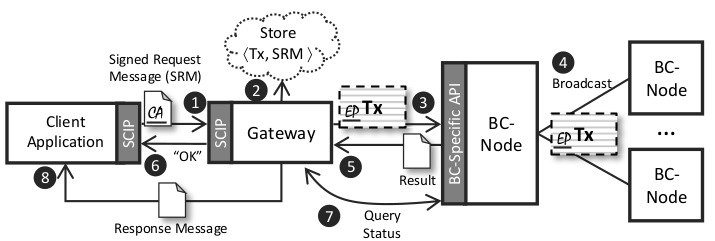
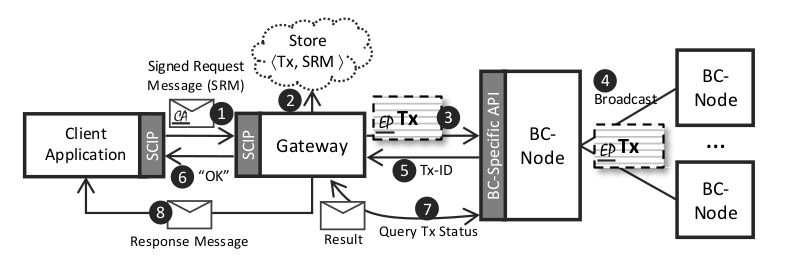
README updated

Changed region(s): [[0.0, 0.029, 0.9846, 0.9876]]

diff --git a/README.md b/README.md
@@ -12,24 +12,68 @@
   Frank Leymann  
 
 ## Introduction
-This document specifies the Smart Contract Invocation Protocol (SCIP) natural evolvement of the Smart Contract Locator ([SCL](https://bit.ly/2WRXvCZ)), intended to provide a protocol specification in the context of blockchains integration that allows external consumer applications to invoke smart contract functions in a uniform manner regardless of the underlying blockchain technology. Moreover it provides the capability to monitor smart contracts at runtime. The protocol assumes that the underlying blockchain technology is compatible with the Smart Contract Description Language ([SCDL](https://bit.ly/2JZUA5S))
+This document specifies the Smart Contract Invocation Protocol (SCIP) as natural evolvement of the Smart Contract Locator ([SCL](https://bit.ly/2WRXvCZ)), intended to provide a protocol specification in the context of blockchains integration that allows external consumer applications to invoke smart contract functions in a uniform manner regardless of the underlying blockchain technology. Moreover it provides the capability to monitor smart contracts at runtime. The protocol assumes that the underlying blockchain technology is compatible with the Smart Contract Description Language ([SCDL](https://bit.ly/2JZUA5S)). This core of the interface consists of a set of *methods* that can be used by blockchain-external consumer applications to interact with *smart contracts*. The methods are provided by an entity, called *gateway* (actual SCIP endpoint), which mediates between two or more different network technologies: the Internet and the blockchain networks. This gateway is reachable using the aforementioned *Smart Contract Locator* ([SCL](https://bit.ly/2WRXvCZ)), which uniquely identifies a smart contract outside the blockchain. We assume that client applications authenticate themselves with the gateway using OAuth 2.0, and that attacks like the Man-In-The-Middle (MITM) are thus prevented.
+
+<br/>
 
 ## Protocol Specification
-The protocol defines a total of six methods that can be grouped into three categories:
-* *Invocation of smart contracts function.*
-* *Live-monitoring of function invocation and event occurrences.*
-* *Querying of past invocations and events*
+The protocol define a total of four different allowed methods:
 
-A summary of all messages used as request or response of the protocol methods are defined in the Figure 1, which shows them in the form of metamodel. Next, we describe the semantics, as well as the exchanged messages for each of these methods in details.
+* The *invocation* of a smart contract function
+* The *subscription* to notifications regarding function invocations or event occurrences
+* The *unsubscription* from live monitoring
+* The *querying* of past invocations or events
+
+Every method is associated to a specific request message, all of them can be found in **Figure 1**, which shows the metamodel of all four request and two response messages. . The bold boxes represent the SCIP messages, whereas the regular ones represent the message content fields. For readability, the metamodel is split into related sub-models.
 
 <br/><br/>
 
 <figure>
     <img src="images/messages-metamodel.png" width="800px">
-    <figcaption><strong>Figure 1</strong>  -  A metamodel describing the various messages of the SCIP protocol.</figcaption>
+    <figcaption><strong>Figure 1</strong>  -  The metamodel of SCIP messages.</figcaption>
 </figure>
 
-### Function Invocation
+All methods return a *synchronous* response message indicating the success or failure of the request, and some of them additionally return one or more *asynchronous* responses or errors. **Table 1** provides a detailed description of all call constructs defined in the previous metamodel.
+
+<figure>
+    <img src="images/fields-table.png" width="800px">
+    <figcaption><strong>Table 1</strong>  -  Description of fields used in SCIP protocol.</figcaption>
+</figure>
+
+Some methods may require a point in time at which an event or a function took place, in this context the *time* refers to the UTC timestamp of the transaction that triggered the event or invoked the function. In particular the time is represented using the ISO 8601-1:2019 combined date and time representation. Certain other methods have a parameter called *degree of confidence* (DoC), which refers to the likelihood that a transaction included in a block will remain persistently stored on the blockchain. A value close to 1 means that the client application wants to receive the result only after ruling out the possibility that the block - including the transaction - may eventually be dropped from the blockchain, whereas a value close to 0 means that the client wants to receive the result as soon as it is available.
+
+
+
+### Invocation
+
+The invocation request is performed through the **Invoke** method, which allows an external application to invoke a specific smart contract function. The structure of the *Invocation* request message, as well as the asynchronous *Callback* message are explained in the **Figure 1a**. In particular this request message contains the name of the function and the list of input parameters, which allow to uniquely identify the specific function, a callback URL to which the gateway will send the asynchronous responses, a base64 encoding of the request message, and finally some optional fields like degree of confidence, correlation identifier, timeout and a list of output parameters that that specifies which parameters the client wants to receive as result from the function invocation (must be a subset of the actual return parameters of the function). A complete list of *Invocation Request* fields can be found in **Table 2**. A deeper description of how this request is handled by the gateway can be found in [invocation example](#step-by-step-invocation) section.
+
+TODO: add table Invocation fields
+
+### Subscription
+
+This request is executed using the **Subscribe** method, in particular this request facilitates the live monitoring of smart contracts by allowing a client application to receive asynchronous notifications about event occurrences or smart contract function invocations. The structure of the message is described in **Figure 1b**, notice that exactly one field, between function identifier and event identifier, must be included. When receiving this specific request, the gateway identifies the designated event/function using the appropriate *identifier*, the field *parameters* further helps the gateway to differentiate between overloads. Then the gateway starts monitoring the event or function and whenever an occurrence is detected, the associated event outputs / function inputs are used to populate and evaluate the Boolean expression specified in the filter. If the expression returns *true* and the transaction causing the occurrence has reached the specified *degree of confidence*, a *Callback* (**Figure 1a**) message to the address specified in *callback URL* is issued. If a new subscription request is made by a client application with a correlation identifier already in
+use, then the old subscription is cancelled and replaced with the new one. This could happen, e.g., if a client application wants to change the expression of the filter, the value of the degree of confidence, or the callback URL of an existing subscription.
+
+TODO: add table subscription fields
+
+### Unsubscription
+
+
+
+
+
+
+
+### Step by Step Invocation
+
+
+
+
+
+
+
+### Invocation 
 
 This category includes one single method, called ***InvokeFunction***, which is used to allow an external application to invoke a specific smart contract function. Figure 2 shows the steps taken by client application and gateway when this method is triggered: The client formulates an *InvokeFunction* request message (i) in according to the structure defined in Table 1.  
 
@@ -205,7 +249,7 @@ Here we show how blockchain native types of some blockchains can be mapped to JS
 ### Ethereum
 
 #### uint\<M\>
-	
+
 ```
 {
 	"type": "integer",
@@ -215,7 +259,7 @@ Here we show how blockchain native types of some blockchains can be mapped to JS
 ```
 
 #### int\<M\>
-	
+
 ```
 {
 	"type": "integer",
@@ -242,7 +286,7 @@ Here we show how blockchain native types of some blockchains can be mapped to JS
 ```
 
 #### fixed\<M\>x\<N\>
-	
+
 ```
 {
 	"type": "number",
